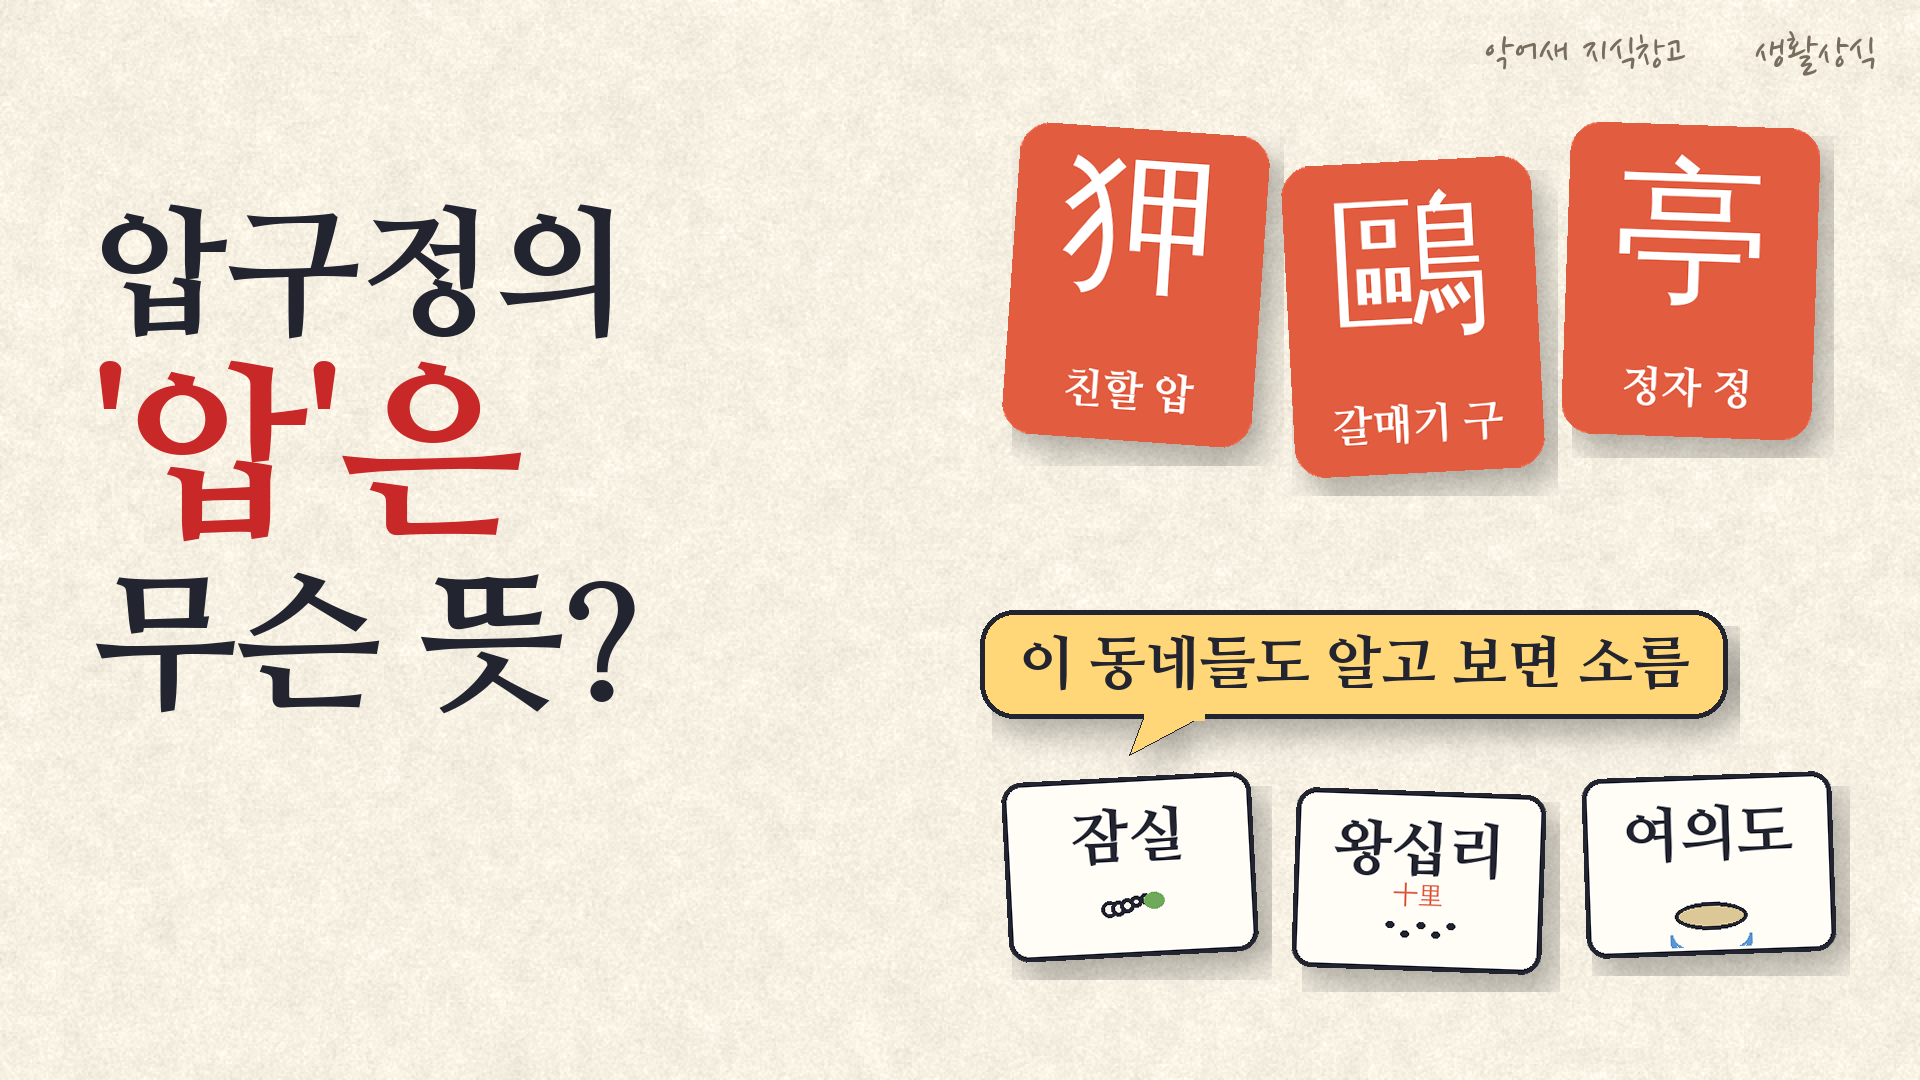
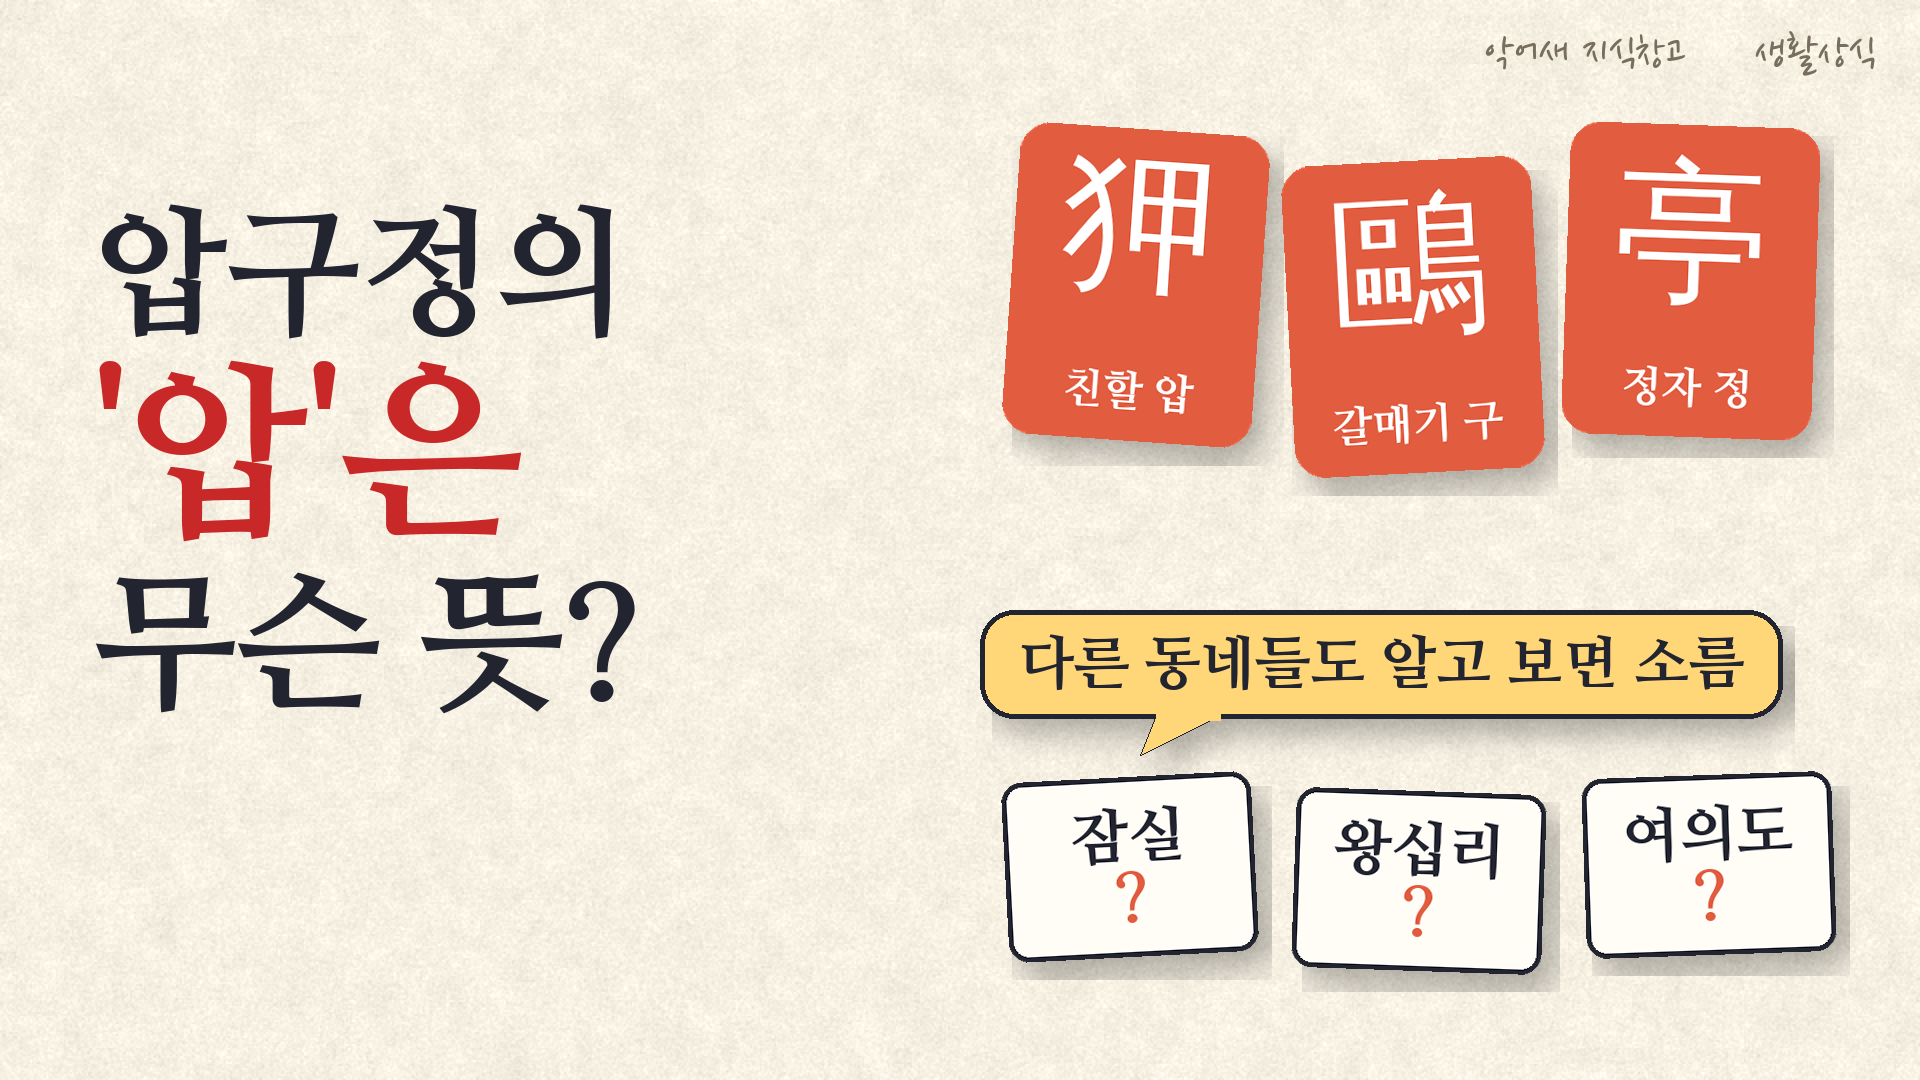
sci06 썸네일 T05 최종: 다른 동네들도 알고 보면 소름
Claude-Session: https://claude.ai/code/session_01XzgYRsYwxnJKVwoBmLGtiR

diff --git a/youtube/tools/thumb_names.py b/youtube/tools/thumb_names.py
@@ -140,8 +140,8 @@ def t05():   # T01 + 다른 동네도(말풍선 + 미니 이름표 3장)
         shadow(f, hanja_card(h, ko, 250), (1000 + i * 280, 120 + (i % 2) * 34), rot=(-4, 3, -2)[i])
     headline(f, [("압구정의", 140, INK), ("'압'은", 190, RED), ("무슨 뜻?", 150, INK)], 90, 200)
     for i, (n, ic) in enumerate((("잠실", "silkworm"), ("왕십리", "walk"), ("여의도", "island"))):
-        shadow(f, mini(n, 250, ic), (1000 + i * 290, 770 + (i % 2) * 16), rot=(3, -2, 2)[i])
-    shadow(f, bubble("이 동네들도 알고 보면 소름", 58), (980, 610))
+        shadow(f, mini(n, 250), (1000 + i * 290, 770 + (i % 2) * 16), rot=(3, -2, 2)[i])
+    shadow(f, bubble("다른 동네들도 알고 보면 소름", 58), (980, 610))
     return f
 
 
